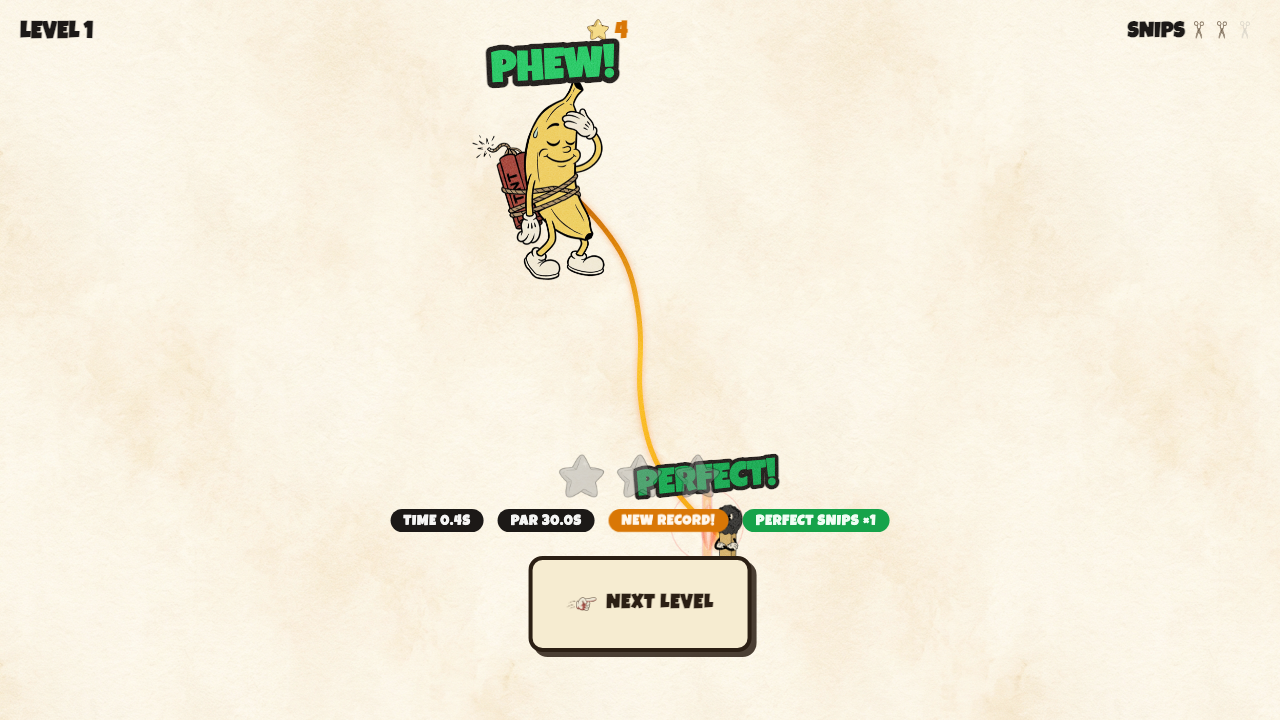
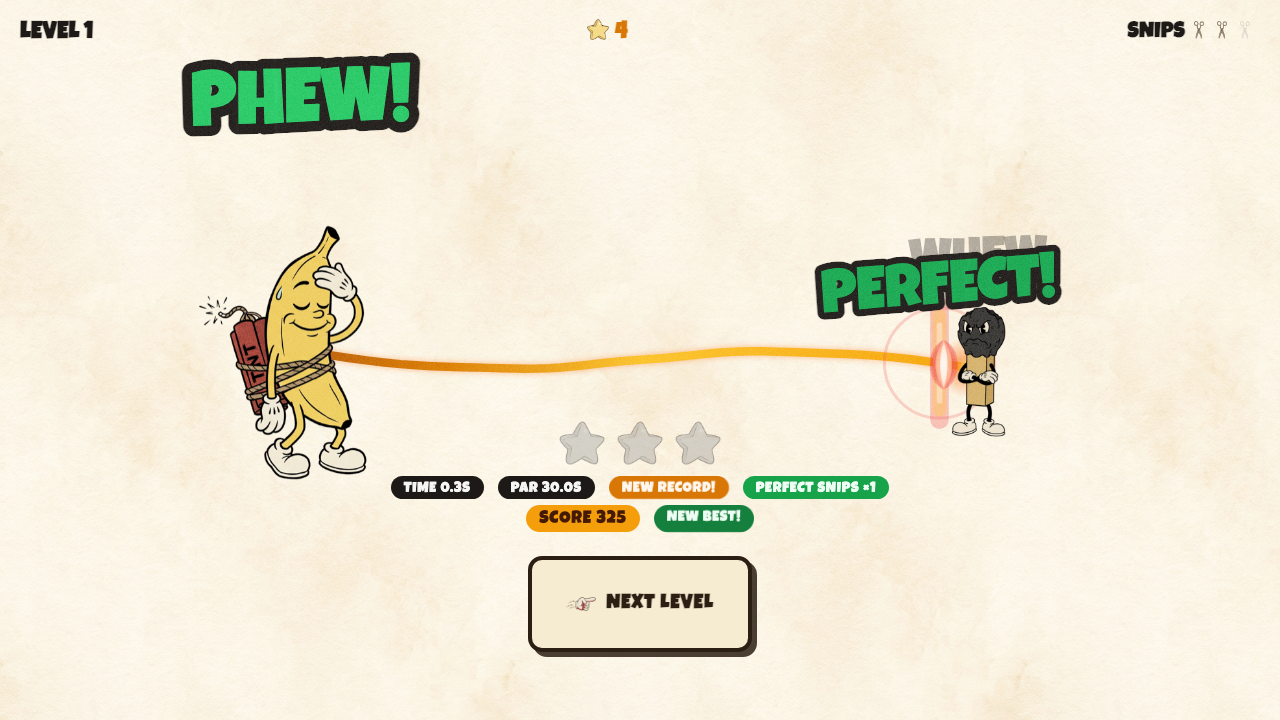
Add multi-cut banking feedback and snip-efficiency score
A single snip that severs N live wicks now pops a Big Fluff-style gold
"+N" banking number with an ascending coin chime, banks a bonus star per
extra wick at level clear, and contributes to a new efficiency score
(100 base + 100 per snip left over + 25 per perfect/multi-cut wick). The
win modal shows SCORE + NEW BEST!, and best scores persist per level so
re-clearing with fewer snips is a chase. Analytics now tags multikills
and score on level_win.

Changed region(s): [[0.1562, 0.3056, 0.8438, 0.7944], [0.375, 0.0306, 0.5, 0.4583], [0.125, 0.0611, 0.3438, 0.2139]]

diff --git a/src/engine/GameLoop.js b/src/engine/GameLoop.js
@@ -4,6 +4,11 @@ import { getBezierXY, distToSegment, clamp } from "./MathUtils.js";
 
 export const STATE = { PLAYING: "playing", WON: "won", LOST: "lost", PAUSED: "paused" };
 
+// Radius of the cut circle. Sparks die when they travel within this distance
+// of a cut point; wick-severing counts use the same value so the "+N" popup
+// always matches what actually happens in _update.
+const CUT_RADIUS = 15;
+
 export class GameLoop {
     constructor({ canvas, renderer, audio, analytics, platform }) {
         this.canvas = canvas;
@@ -37,6 +42,8 @@ export class GameLoop {
         this.lostAt = null; // frameCount when the bomb detonated (drives the blast FX)
         this.wonAt = null; // frameCount when the level was defused (drives the win text)
         this.tutorialActive = false;
+        this.multikills = []; // { x, y, count, at } — one snip severed N wicks (banking popup)
+        this._chime = null; // ascending coin-chime queue for multi-cuts
 
         // Callbacks (wired by main.js).
         this.onSnipsChange = null;
@@ -87,6 +94,8 @@ export class GameLoop {
         // economy and the speed race stay in tension).
         this.perfectSnips = 0;
         this.perfectSnipsAt = []; // { x, y, at } — drive the PERFECT! popups
+        this.multikills = [];
+        this._chime = null;
         // Reset fuse burn + sparks to fresh.
         for (const f of this.fuses) f.burntProgress = 0;
         for (const s of this.sparks) {
@@ -183,7 +192,7 @@ export class GameLoop {
 
         {
             const swipeAngle = Math.atan2(swipeEnd.y - swipeStart.y, swipeEnd.x - swipeStart.x);
-            this.cuts.push({ x: snipPoint.x, y: snipPoint.y, radius: 15, angle: swipeAngle, fuseId: snipFuse.id, snipT });
+            this.cuts.push({ x: snipPoint.x, y: snipPoint.y, radius: CUT_RADIUS, angle: swipeAngle, fuseId: snipFuse.id, snipT });
             this.cutFlashes.push({ x: snipPoint.x, y: snipPoint.y, angle: swipeAngle, life: 1 });
 
             // The fading blade-trail slash follows the finger path (Cut-the-Rope
@@ -205,6 +214,29 @@ export class GameLoop {
                     this.perfectSnips++;
                     this.perfectSnipsAt.push({ x: snipPoint.x, y: snipPoint.y, at: this.frameCount });
                 }
+            }
+            // MULTI-CUT: count the live wicks this one snip severs. A wick counts
+            // when its curve passes within the cut circle AHEAD of its spark —
+            // those sparks die as they burn into the gap (same rule _update uses).
+            // N>=2 is the dopamine moment: a banking "+N" popup, an ascending coin
+            // chime, and a bonus star per extra wick banked at level clear.
+            let severed = 0;
+            for (let i = 0; i < this.sparks.length; i++) {
+                const s = this.sparks[i];
+                if (!s.active) continue;
+                const fuse = this.fuses[s.fuseIndex];
+                let minD = Infinity, minT = 0;
+                for (let t = s.progress; t <= 1; t += 0.02) {
+                    const pt = getBezierXY(t, fuse.startNode, fuse.cp1, fuse.cp2, fuse.endNode);
+                    const d = Math.hypot(pt.x - snipPoint.x, pt.y - snipPoint.y);
+                    if (d < minD) { minD = d; minT = t; }
+                }
+                if (minD < CUT_RADIUS && minT > s.progress + 0.005) severed++;
+            }
+            if (severed >= 2) {
+                this.multikills.push({ x: snipPoint.x, y: snipPoint.y, count: severed, at: this.frameCount });
+                if (this.audio) this.audio.play("win_star", { rate: 1.0 });
+                this._chime = { total: severed - 1, step: 0, next: performance.now() + 70 };
             }
             // Heads-up that the budget is nearly spent (only worth saying when
             // the level started with more than one cut).
@@ -287,6 +319,19 @@ export class GameLoop {
         return 2;
     }
 
+    /** Efficiency score: fewer snips used → more points. 100 for a clear, +100
+     *  per snip left over, +25 per perfect snip and per extra wick sliced in a
+     *  multi-cut — both reward reading the maze and placing fewer, smarter cuts. */
+    computeScore() {
+        const snipsLeft = Math.max(0, (this.level?.snipsAllowed ?? 0) - this.snipsUsed);
+        return 100 + 100 * snipsLeft + 25 * (this.perfectSnips + this.multikillStars);
+    }
+
+    /** Total bonus stars from multi-cuts this attempt (one per extra wick). */
+    get multikillStars() {
+        return (this.multikills || []).reduce((a, m) => a + (m.count - 1), 0);
+    }
+
     /** Level-clear duration in frames (start → win/lose), for the speed record. */
     get clearFrames() {
         return this.frameCount - this.startedAt;
@@ -306,6 +351,7 @@ export class GameLoop {
                 this.analytics.track("level_win", {
                     level: this.level.level_id, stars, attempts: this.attempts,
                     duration: this.frameCount - this.startedAt, snips_used: this.snipsUsed,
+                    multikills: this.multikills.length, score: this.computeScore(),
                     mode: this.levelMode,
                 });
             }
@@ -487,6 +533,19 @@ export class GameLoop {
         if (this.deniedSlash) {
             this.deniedSlash.life -= 0.09;
             if (this.deniedSlash.life <= 0) this.deniedSlash = null;
+        }
+
+        // Multi-cut coin chime: one ascending note per extra wick sliced. Time-
+        // based (not frame-based) so the spacing clears AudioManager's 60ms
+        // rate limit on every refresh rate.
+        if (this._chime) {
+            const now = performance.now();
+            while (this._chime.step < this._chime.total && now >= this._chime.next) {
+                this._chime.step++;
+                this._chime.next = now + 70;
+                if (this.audio) this.audio.play("win_star", { rate: 1.0 + this._chime.step * 0.25 });
+            }
+            if (this._chime.step >= this._chime.total) this._chime = null;
         }
 
         // Win condition: all sparks snuffed (or all delays not yet fired is still playable).

diff --git a/src/engine/Renderer.js b/src/engine/Renderer.js
@@ -880,6 +880,12 @@ export class Renderer {
                 p.at, 65
             );
         }
+
+        // MULTI-CUT banking numbers — a Big Fluff-style "+N" pops where one snip
+        // sliced several wicks at once: gold, bouncy, floats up as it fades.
+        for (const mk of game.multikills || []) {
+            this._drawBankCount(game, mk);
+        }
     }
 
     /** Small comic word popping at an arbitrary world point — same poster style
@@ -914,6 +920,42 @@ export class Renderer {
         ctx.strokeText(text, 0, 0);
         ctx.fillStyle = color;
         ctx.fillText(text, 0, 0);
+        ctx.restore();
+    }
+
+    /** Big Fluff-style banking counter for a multi-cut: a big gold "+N" that
+     *  pops in with overshoot, floats up, and fades — the dopamine hit for
+     *  slicing several wicks with one snip. */
+    _drawBankCount(game, mk) {
+        if (mk.at == null) return;
+        const elapsed = game.frameCount - mk.at;
+        if (elapsed < 0 || elapsed > 55) return;
+        const ctx = this.ctx;
+
+        let ty = mk.y;
+        const cam = game.camera;
+        const sy = this.height / 2 + (ty - (this.height / 2 - cam.y)) * cam.zoom;
+        if (sy < 70) ty += (70 - sy) / cam.zoom;
+
+        const pop = 1.9 - 0.9 * Math.exp(-elapsed * 5);
+        const float = Math.min(22, elapsed * 0.45); // rises as it fades
+        const wobble = Math.sin(game.frameCount * 0.14) * 0.06 * Math.min(1, elapsed / 10);
+        const size = 30 + mk.count * 5;
+
+        ctx.save();
+        ctx.globalAlpha = Math.min(1, elapsed / 5) * Math.min(1, (55 - elapsed) / 14);
+        ctx.translate(mk.x, ty - 56 - float);
+        ctx.rotate(-0.05 + wobble);
+        ctx.scale(pop, pop);
+        ctx.font = `${size}px 'Luckiest Guy', 'Courier New', Courier, monospace`;
+        ctx.textAlign = "center";
+        ctx.textBaseline = "middle";
+        ctx.lineJoin = "round";
+        ctx.lineWidth = Math.max(6, size * 0.22);
+        ctx.strokeStyle = "#1c1917";
+        ctx.strokeText(`+${mk.count}`, 0, 0);
+        ctx.fillStyle = "#f59e0b";
+        ctx.fillText(`+${mk.count}`, 0, 0);
         ctx.restore();
     }
 

diff --git a/src/main.js b/src/main.js
@@ -60,6 +60,8 @@ const winPar = $("win-par");
 const winRecord = $("win-record");
 const winPerfect = $("win-perfect");
 const winPerfectCount = $("win-perfect-count");
+const winScore = $("win-score");
+const winBest = $("win-best");
 const winStreak = $("win-streak");
 const btnNext = $("btn-next");
 const ddaText = $("dda-text");
@@ -291,9 +293,12 @@ game.onLevelComplete = (levelId, stars, won) => {
         if (unlockProgressRewards() > 0) {
             starDisplay.classList.add("new-unlock");
         }
-        // Speed reward: PERFECT SNIPs bank a star each (capped by snips spent).
+        // Speed reward: PERFECT SNIPs + multi-cut bonus stars (one per extra
+        // wick sliced by a single snip) bank at level clear.
         const perfect = game.perfectSnips;
-        if (perfect > 0) save.depositStars(perfect);
+        const multi = game.multikillStars;
+        const earned = perfect + multi;
+        if (earned > 0) save.depositStars(earned);
         updateUi();
         showStars(stars);
 
@@ -304,6 +309,13 @@ game.onLevelComplete = (levelId, stars, won) => {
         winTime.textContent = `TIME ${seconds.toFixed(1)}s`;
         winPar.textContent = config?.par != null ? `PAR ${config.par.toFixed(1)}s` : "";
         winRecord.style.display = isRecord ? "inline-block" : "none";
+
+        // Efficiency score: fewer snips used → higher. Fewest snips = most
+        // thinking about where to cut, so it scores highest.
+        const score = game.computeScore();
+        const scoreRecord = save.setBestScore(levelId, score);
+        winScore.textContent = `SCORE ${score}`;
+        winBest.style.display = scoreRecord ? "inline-block" : "none";
         if (perfect > 0) {
             winPerfectCount.textContent = `×${perfect}`;
             winPerfect.style.display = "inline-block";

diff --git a/src/engine/SaveManager.js b/src/engine/SaveManager.js
@@ -17,6 +17,7 @@ const freshDefaults = () => ({
     igniters: {}, // igniter typeId -> true (unlocked)
     selectedIgniter: null,
     bestTimes: {}, // levelId -> best clear seconds (float)
+    bestScores: {}, // levelId -> best efficiency score (int)
     dailyStreak: 0, // consecutive days with a completed daily challenge
     lastDailyDay: null, // "YYYY-MM-DD" of the last completed daily
     dailyCompleted: {}, // "YYYY-MM-DD" -> true
@@ -166,6 +167,25 @@ export class SaveManager {
         if (typeof n !== "number" || n <= 0) return;
         this.data.starBank += Math.floor(n);
         this._save();
+    }
+
+    // ---- efficiency score ------------------------------------------------------
+
+    /** Best efficiency score, or 0 if never recorded. */
+    getBestScore(levelId) {
+        return this.data.bestScores[String(levelId)] || 0;
+    }
+
+    /** Store a new best efficiency score. Returns true if it was a new best. */
+    setBestScore(levelId, score) {
+        levelId = String(levelId);
+        const prev = this.data.bestScores[levelId] || 0;
+        if (typeof score === "number" && isFinite(score) && score > prev) {
+            this.data.bestScores[levelId] = Math.floor(score);
+            this._save();
+            return true;
+        }
+        return false;
     }
 
     // ---- daily challenge ---------------------------------------------------

diff --git a/style.css b/style.css
@@ -207,6 +207,8 @@ canvas { display: block; position: absolute; z-index: 10; }
 #win-stats .stat.record { background: #d97706; color: #fff7ed; animation: win-record-pulse 0.9s ease-in-out infinite alternate; }
 #win-stats .stat.perfect { background: #16a34a; color: #f0fdf4; }
 #win-stats .stat.streak { background: #b45309; color: #fffbeb; animation: win-record-pulse 0.9s ease-in-out infinite alternate; }
+#win-stats .stat.score { background: #f59e0b; color: #451a03; font-size: 1.1rem; }
+#win-stats .stat.best { background: #15803d; color: #f0fdf4; animation: win-record-pulse 0.9s ease-in-out infinite alternate; }
 @keyframes win-record-pulse { from { transform: scale(1); } to { transform: scale(1.08); } }
 
 /* Tutorial overlay */

diff --git a/index.html b/index.html
@@ -135,6 +135,8 @@
             <span class="stat" id="win-par">PAR --</span>
             <span class="stat record" id="win-record" style="display: none;">NEW RECORD!</span>
             <span class="stat perfect" id="win-perfect" style="display: none;">PERFECT SNIPS <span id="win-perfect-count"></span></span>
+            <span class="stat score" id="win-score">SCORE --</span>
+            <span class="stat best" id="win-best" style="display: none;">NEW BEST!</span>
             <span class="stat streak" id="win-streak" style="display: none;">STREAK --</span>
         </div>
         <button id="btn-next"><img src="assets/ui/ui-icon-next.png" alt="">NEXT LEVEL</button>
